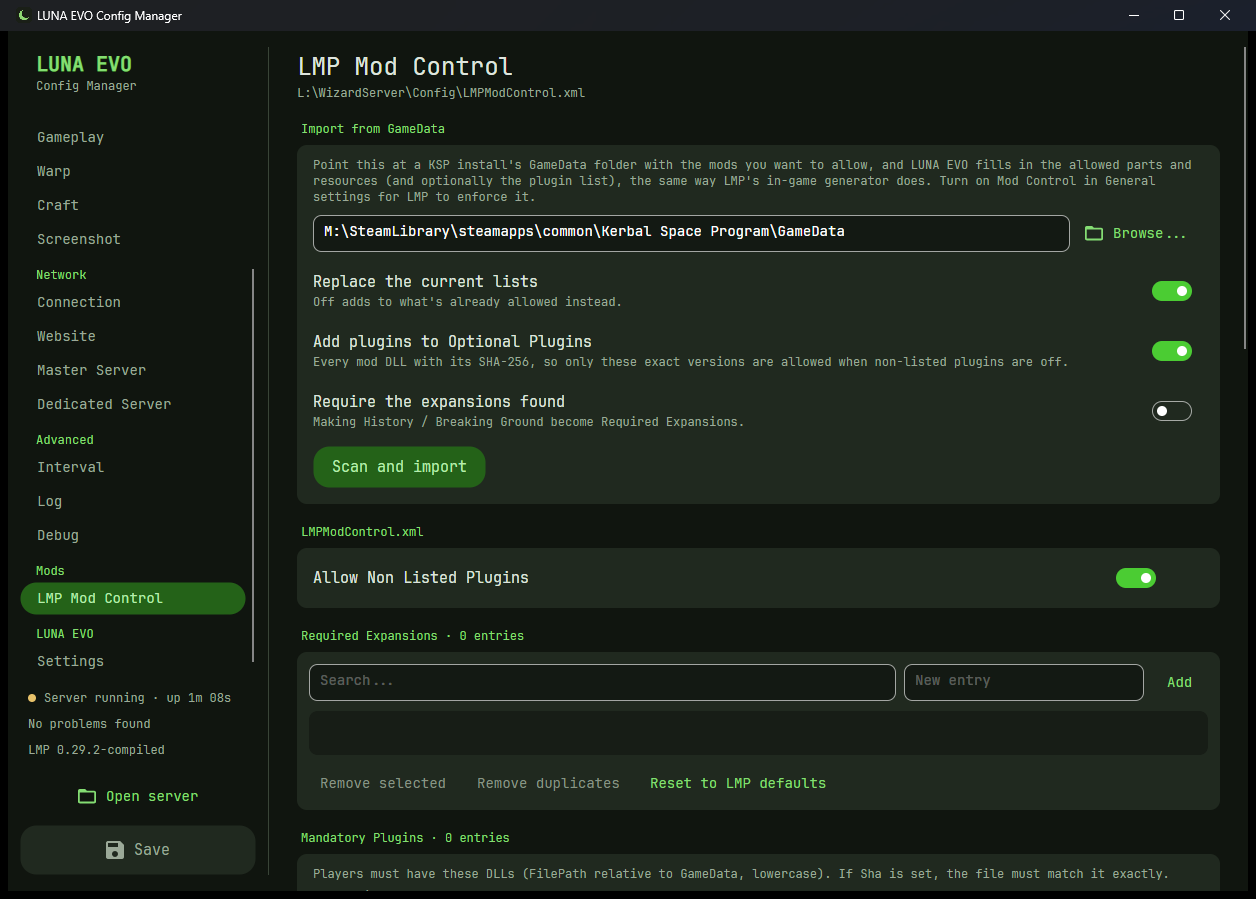
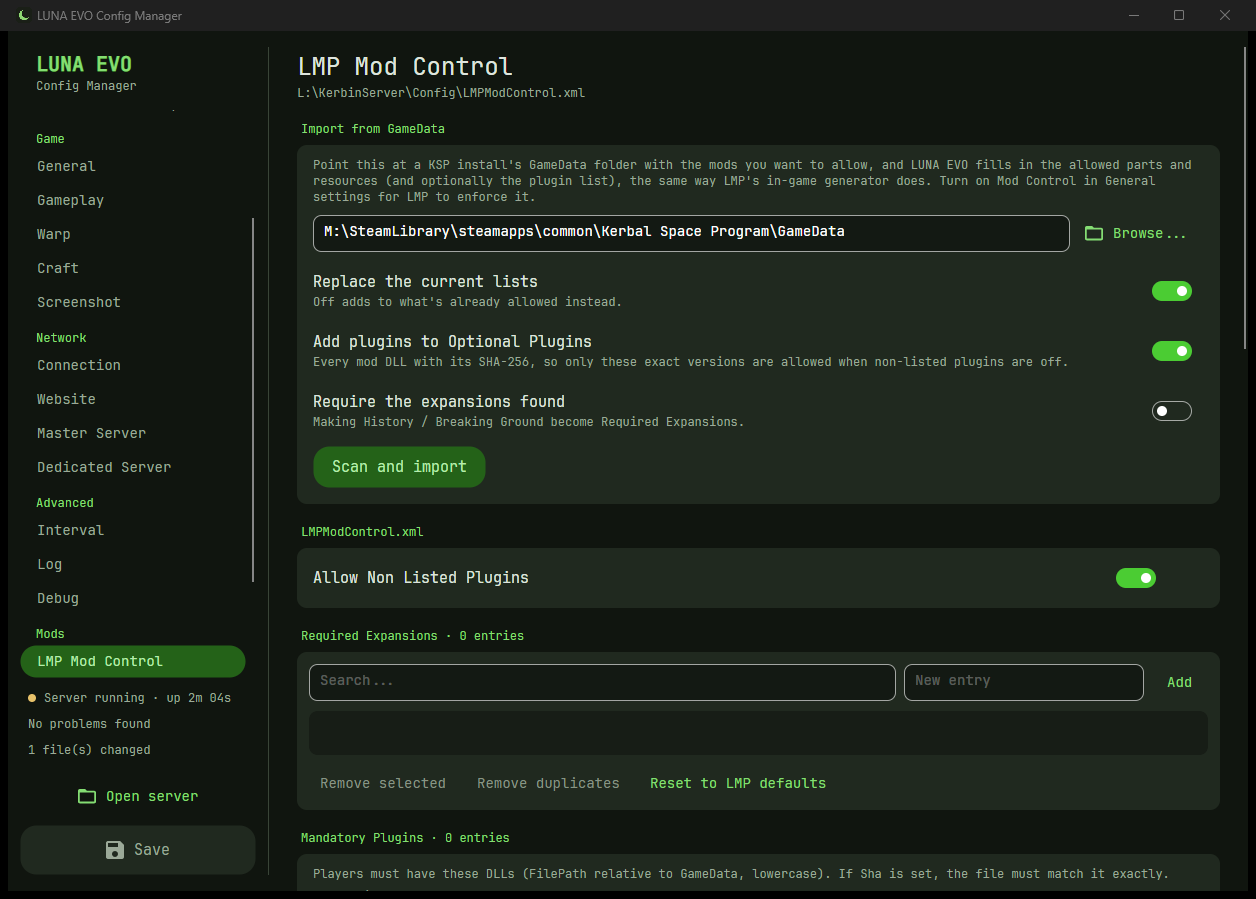
README: 0.4.0 screenshots, download section, full feature list
- Retake every screenshot from LUNA EVO 0.4.0 on one sandbox demo server
  (new rail with Play, Join on the welcome page, Share row on Connect).
- Add a Download section and release links, a "Safe by default" feature group,
  and Connect / first-start to the gallery.
- Fix sections that were duplicated in the 0.4.0 README.
- Drop three screenshots nothing referenced.

diff --git a/README.md b/README.md
@@ -19,14 +19,19 @@ Version 0.4.0 · Windows · .NET 10 · Avalonia 12 · GPL-3.0
 > **Security:** downloads are checked against GitHub's SHA-256, and the 0.4.0 audit and its fixes are in [`SECURITY.md`](SECURITY.md).
 
 > [!NOTE]
-> **Security:** downloads are checked against GitHub's SHA-256, and the 0.4.0 audit and its fixes are in [`SECURITY.md`](SECURITY.md).
-
-> [!NOTE]
 > **This app was written with AI.** The code, tests and docs were written by Claude (Anthropic's AI model) through
 > Claude Code, directed and reviewed by the project owner. See [How this app was made](#how-this-app-was-made-ai-disclosure)
 > for exactly who did what and how it was checked.
 
 ![Welcome](docs/screenshots/welcome.png)
+
+## Download
+
+**[⬇ Download the latest release](https://github.com/NEON-NULL-NARWHAL/luna-evo-multiplayer-config-manager/releases/latest)**:
+`LunaEvo.ConfigManager.exe`, one file for Windows 10/11 (x64), nothing to install. Put it next to your LMP
+`Server.exe`, or anywhere if you're setting up a new server or just joining one. The exe isn't code-signed yet, so
+Windows SmartScreen may ask you to confirm the first time (**More info → Run anyway**). Each release lists the exe's
+SHA-256 so you can check your download.
 
 ## What it does
 
@@ -46,7 +51,7 @@ console window open. This app does all of that for you, and adds what a server h
 
 ### Join a server (for players)
 
-You don't have to host anything to use LUNA EVO.
+You don't have to host anything to use LUNA EVO. Choose **Join a friend's server** on the welcome page.
 
 | | |
 |---|---|
@@ -76,6 +81,16 @@ You don't have to host anything to use LUNA EVO.
 | 🎨 **Make it yours** | RGB colour wheel and KSP-themed presets regenerate the whole theme; dark, light or follow Windows. |
 | 📦 **One file** | A single self-contained `.exe`. Drop it next to `Server.exe` and it finds the server by itself. |
 
+### Safe by default
+
+| | |
+|---|---|
+| 🔒 **Verified downloads** | LMP is only downloaded from GitHub over HTTPS and checked against the SHA-256 GitHub publishes, before it's installed. |
+| 💾 **Backups everywhere** | A timestamped config backup before every save, the old server kept on every update, the Universe snapshotted before every restore, LMP's server list backed up before every change. |
+| 🏠 **Private until you say so** | New servers aren't on the public list, don't touch your router, and keep live info on this PC. The Connect page explains each step before you open anything up. |
+| 🤫 **No secrets kept** | LUNA EVO never stores passwords or webhooks in its own settings, and has no telemetry or account. See [`SECURITY.md`](SECURITY.md). |
+| ⚠ **Warns before it matters** | Saving while the server runs, stopping it (players get disconnected), closing with unsaved changes, settings LMP would reject. |
+
 ## Screenshots
 
 | | |
@@ -92,20 +107,21 @@ You don't have to host anything to use LUNA EVO.
 | **Log files:** every `lmpserver_*.log`, colour-coded. | **Automation:** auto-restart, daily restart, Universe backups, updates. |
 | ![Join a server](docs/screenshots/join.png) | ![Join: play](docs/screenshots/join-play.png) |
 | **Join a server:** network, ping and live server info for players. | **Launch KSP and join:** straight into the server, or via LMP's list. |
+| ![Connect](docs/screenshots/connect.png) | ![First start](docs/screenshots/first-start.png) |
+| **Connect:** what to tell your friends, and what might block them. | **First start:** LMP's own startup, inside the app. |
 | ![Settings](docs/screenshots/settings.png) | ![Light theme](docs/screenshots/light.png) |
 | **LUNA EVO Settings:** colour wheel, presets, theme. | **Light theme.** |
 
-<sub>Screenshots are from sandbox copies of a real LMP 0.29.2 server with personal details removed (network addresses are replaced with examples). The setup wizard and Connect page are shown step by step in [Set up a new server](#set-up-a-new-server-step-by-step).</sub>
+<sub>All screenshots are LUNA EVO 0.4.0 running a sandbox copy of a real LMP 0.29.2 server, with personal details removed (network addresses are replaced with examples). The setup wizard is shown step by step in [Set up a new server](#set-up-a-new-server-step-by-step).</sub>
 
 ## Getting started
 
-Get `LunaEvo.ConfigManager.exe` from a release, or build it with `publish.ps1` (see [Build it](#build-it)). It's a
-single file with nothing to install.
+Get `LunaEvo.ConfigManager.exe` from the [latest release](https://github.com/NEON-NULL-NARWHAL/luna-evo-multiplayer-config-manager/releases/latest),
+or build it with `publish.ps1` (see [Build it](#build-it)). It's a single file with nothing to install.
 
 - **No server yet?** Follow [Set up a new server](#set-up-a-new-server-step-by-step) below. It takes about two minutes.
 - **Already have an LMP server?** Put the exe in your server folder, next to `Server.exe`, and double-click it.
   Edit, **Save** (Ctrl+S), then **Server Console → Start**.
-- **Just playing?** Choose **Join a friend's server** on the welcome page. See [Join a friend's server](#join-a-friends-server).
 - **Just playing?** Choose **Join a friend's server** on the welcome page. See [Join a friend's server](#join-a-friends-server).
 
 ### Set up a new server, step by step
@@ -171,19 +187,6 @@ server for changes to take effect.
 
 **What your players need:** KSP 1.12 with the **LMP client mod of the same version** as your server. It's on the same
 [LMP releases page](https://github.com/LunaMultiplayer/LunaMultiplayer/releases) (`LunaMultiplayer-Client-Release.zip`).
-
-### Join a friend's server
-
-1. Start LUNA EVO and choose **Join a friend's server** (or **Play → Join a server** in the rail).
-2. Type the address your host gave you (e.g. `192.168.1.20` or `100.101.102.103:8800`) and press **Check server**.
-   You see where it is and your ping. Server info, players and vessels appear if the host pressed **Share with
-   players** on their Connect page.
-3. Check the **Kerbal Space Program** folder (found automatically for Steam) and that your LMP version matches the server's.
-4. Type the password if there is one, and press **Launch KSP and join**.
-   - Default port (8800), no password: KSP starts and LMP connects by itself.
-   - Otherwise: the server is at the top of LMP's server list with your password filled in. Click it and connect.
-     (LMP's own command-line option can't handle a port or a password; we plan to fix that in the LUNA EVO fork.)
-5. **Save to my servers** to skip typing next time.
 
 ### Join a friend's server
 
@@ -277,8 +280,6 @@ AI-written code can look right and still be wrong, so nothing here is trusted on
 - **Against the real thing:**
   - The wizard downloaded the real LMP 0.29.2 from GitHub, and the real server started on the generated config **with no errors**.
   - The Players page read the real server's live JSON. A Universe backup was taken while it ran, and it stopped cleanly.
-  - The Join page checked a real running server (resolve, ping, live info) and found a real KSP install with LMP 0.29.2.
-  - The download checksum was checked against the real LMP 0.29.2 release's published SHA-256.
   - The Join page checked a real running server (resolve, ping, live info) and found a real KSP install with LMP 0.29.2.
   - The download checksum was checked against the real LMP 0.29.2 release's published SHA-256.
   - The GameData import scanned a real modded KSP install (4,382 `.cfg` files): 1,527 parts, 132 plugins with hashes, and every stock part that still exists in the game.
